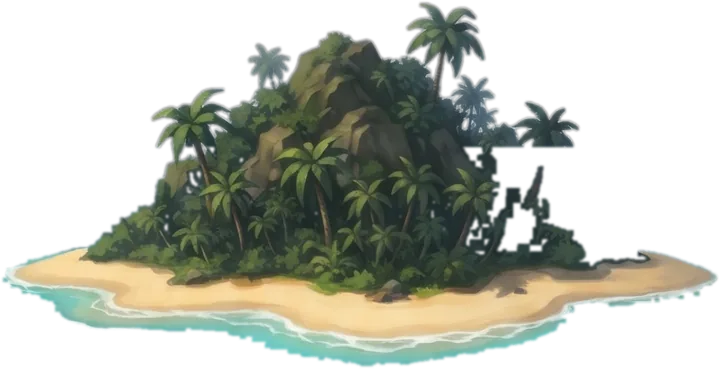
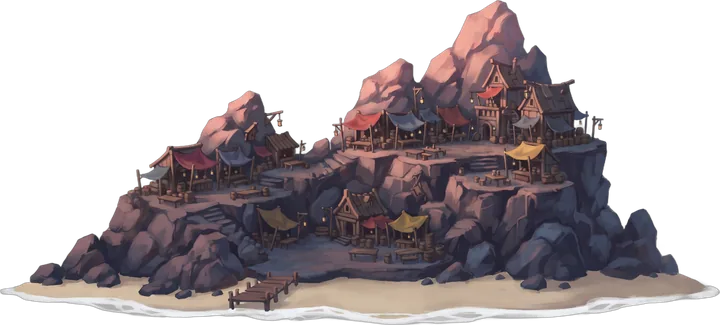
Сцена с палубы: своя картинка ивентового острова
Claude-Session: https://claude.ai/code/session_01Wp5NtVv8pXpMrxJKbY95Me

diff --git a/gl-new.html b/gl-new.html
@@ -4503,7 +4503,7 @@ addEventListener('resize',()=>{clearTimeout(window.__vrt);window.__vrt=setTimeou
 function smokerSees(){const sm=G.players.find(q=>q.ch==='smoker');if(!sm)return false;if(NET.on)return NET.me===sm.i;const hum=G.players.filter(q=>!q.bot);if(hum.length===1)return hum[0]===sm;return UI.viewer===sm.i}
 // ---------- N: сцена «с палубы» — вид от лица игрока, карта по кнопке ----------
 const DK_BG={still:.4037,storm:.4037,aqua:.4262,buster:.4425,belt:.3785,tarai:.3175};
-const DK_ART={start:[720,335],base:[720,295],event:[720,369],market:[720,336],battle:[720,252],jail:[720,321],dozor:[720,302],pon:[720,296],port:[720,323],fin:[720,347],fog:[720,257],zun:[820,428]};
+const DK_ART={start:[720,335],base:[720,295],event:[720,325],market:[720,336],battle:[720,252],jail:[720,321],dozor:[720,302],pon:[720,296],port:[720,323],fin:[720,347],fog:[720,257],zun:[820,428]};
 const DK_TN={start:'Старт',base:'Пустой',event:'Задания',market:'Рынок',battle:'Поле битвы',jail:'Тюрьма',dozor:'База дозора',pon:'Понеглиф',port:'Переход',fin:'Лафтейл',fog:'Неизвестно',zun:'Зунеша'};
 const DK_TI={start:'⚑',event:'❗',market:'💰',battle:'⚔',jail:'⛓',dozor:'⚓',pon:'П',port:'⛰',fin:'★',fog:'?',zun:'🦖'};
 const DK_TC={start:'#5fd38a',event:'#f0b35a',market:'#f2c14e',battle:'#ff7b6b',jail:'#c7ccd6',dozor:'#8fb6ff',pon:'#ff8f8f',port:'#b9a6ff',fin:'#f2c14e',fog:'#9fc7e8',zun:'#9fe0a8',base:'#d6dbe2'};
